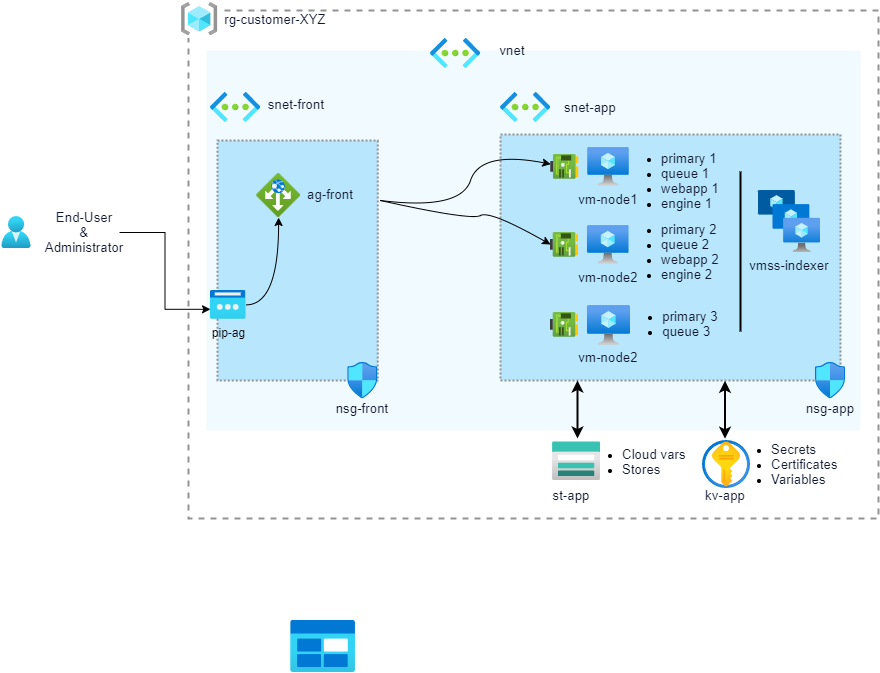
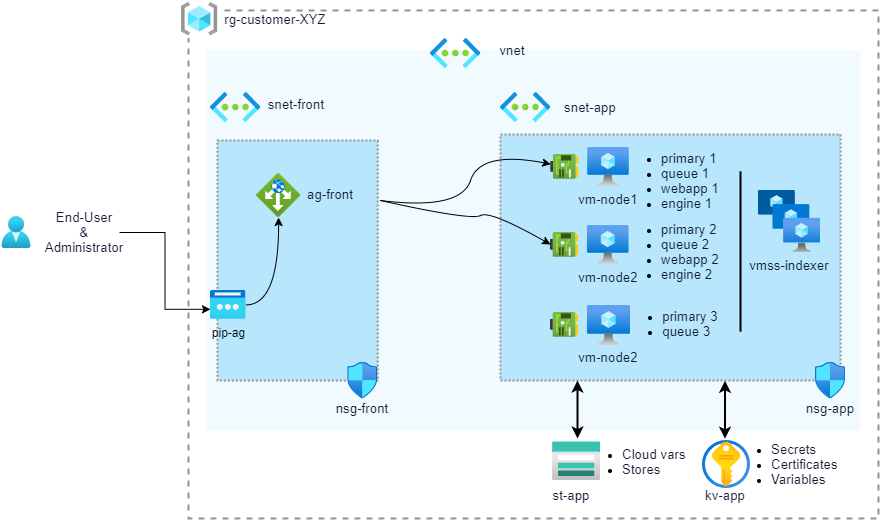
* Update terraform readme with new diagram for each sample

diff --git a/terraform/README.md b/terraform/README.md
@@ -6,11 +6,12 @@ Sinequa For Azure (S4A) Terraform is a set of Terraform scripts used for a Sineq
 0. [Prerequisite](#prerequisite)<br>
 1. [Terraform Modules](#modules)<br>
 2. [complete_grid Sample](#complete_grid)<br>
-2.1. [Nodes Specialization](#specify)<br>
-2.2. [Add Nodes to a Sinequa Grid](#add)<br>
-2.2.1.  [Add a VM Node](#add_vm)<br>
-2.2.2.  [Add a VMSS Node](#add_vmss)<br>
-2.2.3.  [Update a Sinequa Grid](#update)<br>
+3. [complete_grid_with_app_gateway Sample](#complete_grid_with_app_gateway)<br>
+4. [standalone_server Sample](#standalone_server)<br>
+5. [Operations](#operations)<br>
+5.1.  [Add a VM Node](#add_vm)<br>
+5.2.  [Add a VMSS Node](#add_vmss)<br>
+5.3.  [Update a Sinequa Grid](#update)<br>
 
    
 
@@ -174,7 +175,7 @@ PS C:\S4A\terraform\confs\complete_grid> .\terraform apply
  * 1 virtual network
  * 3 virtual machines for [primary nodes](https://doc.sinequa.com/en.sinequa-es.v11/Content/en.sinequa-es.admin-grid-primary-nodes.html)
 
-![Sinequa For Azure Deployment](../images/S4A_Default_ARM.png)
+![Sinequa For Azure Deployment](../images/S4A_complete_grid_with_app_gateway.png)
 
 ```powershell
 PS C:\S4A\terraform\confs\complete_grid_with_app_gateway> .\terraform init
@@ -193,17 +194,17 @@ PS C:\S4A\terraform\confs\complete_grid_with_app_gateway> .\terraform apply
  * 1 virtual network
  * 1 virtual machine for all roles (including on [primary node](https://doc.sinequa.com/en.sinequa-es.v11/Content/en.sinequa-es.admin-grid-primary-nodes.html))
 
-![Sinequa For Azure Deployment](../images/S4A_Default_ARM.png)
+![Sinequa For Azure Deployment](../images/S4A_standalone_server.png)
 
 ```powershell
-PS C:\S4A\terraform\confs\complete_grid_with_app_gateway> .\terraform init
-PS C:\S4A\terraform\confs\complete_grid_with_app_gateway> .\terraform validate
-PS C:\S4A\terraform\confs\complete_grid_with_app_gateway> .\terraform apply
+PS C:\S4A\terraform\confs\standalone_server> .\terraform init
+PS C:\S4A\terraform\confs\standalone_server> .\terraform validate
+PS C:\S4A\terraform\confs\standalone_server> .\terraform apply
 ```
 
-
-### 2.2. Add Nodes to a Sinequa Grid <a name="add">	
-#### 2.2.1 Add a VM Node <a name="add_vm"> 
+5. [](#operations)<br>
+### 5. Operations <a name="operations">	
+#### 5.1 Add a VM Node <a name="add_vm"> 
 In `conf.tf`, add a new resource using the `vm` module and re-deploy.
 
 ```terraform
@@ -247,7 +248,7 @@ PS C:\S4A\terraform\confs\complete_grid> .\terraform apply
 ```
 
 
-#### 2.2.2 Add a VMSS Node <a name="add_vmss"> 
+#### 5.2 Add a VMSS Node <a name="add_vmss"> 
 In `conf.tf`, add a new resource using the `vmss` module and re-deploy.
 
 ```terraform
@@ -281,7 +282,7 @@ PS C:\S4A\terraform\confs\complete_grid> .\terraform apply
 ```
 
 
-### 2.2.3. Update a Sinequa Grid <a name="update"> 
+### 5.3. Update a Sinequa Grid <a name="update"> 
 To update a complete grid, just change the `local.image_id` of the `conf.tf` with the new version, then re-deploy.
 
 ```terraform
